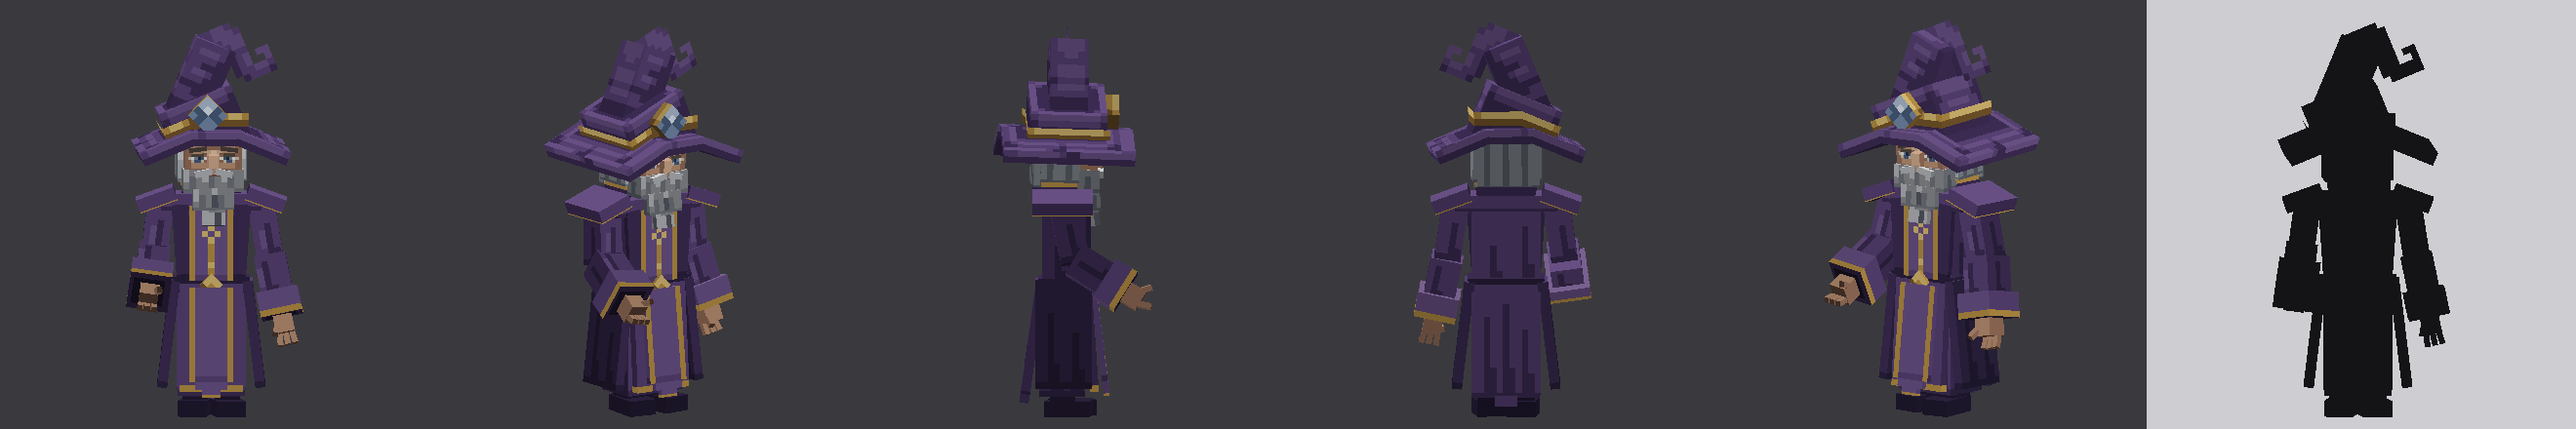
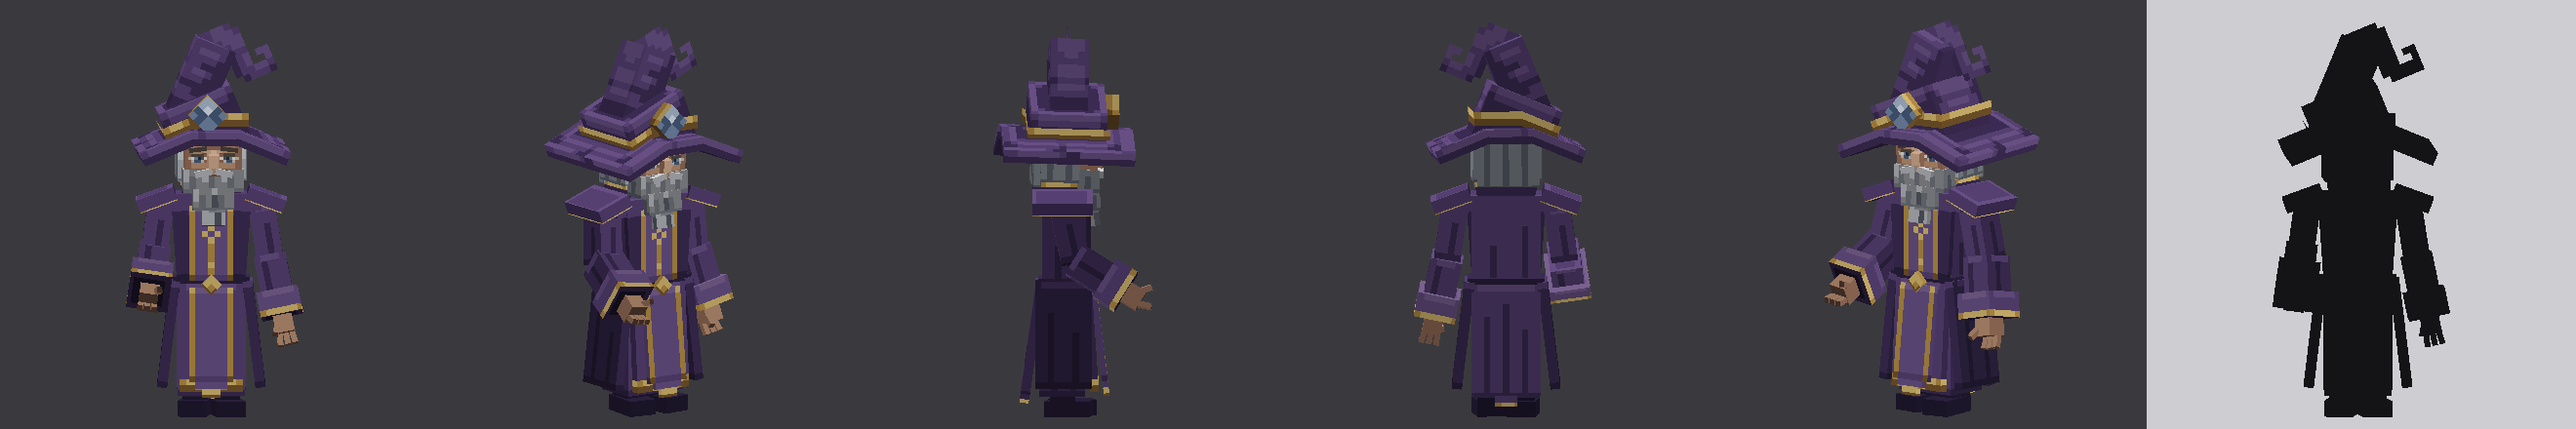
Oracle: keep the hat-style shading, buckle in front of the tabard
The trial becomes the default (--plain gives the flat cloth back). The belt
buckle is a little smaller and moved forward so its lower point no longer
sinks into the skirt.

diff --git a/FluxDungeons/assets/monstres/oracle.py b/FluxDungeons/assets/monstres/oracle.py
@@ -45,8 +45,8 @@ GOLD = E.GOLD
 SIDES = E.SIDES
 
 
-# Trial of 2026-11-14 (`--essai`): the outfit shaded the way the hat is. Off: the delivered model.
-HAT_STYLE = False
+# The outfit is shaded the way the hat is (kept after the trial of 2026-11-14). `--plain`: the Evoker's flat cloth.
+HAT_STYLE = True
 
 
 def gold_row(px, y):
@@ -371,7 +371,8 @@ def parts():
     # ---------------------------------------------------------------- torso
     add("Torso", "torso", (0, 28, 0), (11, 14.5, 7), (0, 0, 0), "robe")
     add("Torso", "belt", (0, 20.9, 0), (12.2, 2.4, 8.4), (0, 0, 0), "belt")
-    add("Torso", "buckle", (0, 20.9, -4.4), (2.6, 2.6, 0.9), (0, 0, 45), "mount")
+    # the buckle sits in front of the tabard, so its lower point is not swallowed by the skirt
+    add("Torso", "buckle", (0, 21.0, -5.1), (2.3, 2.3, 0.9), (0, 0, 45), "mount")
     add("Torso", "tabard_up", (0, 27.5, -3.85), (7, 12, 0.8), (0, 0, 0), "tabard_up")
     add("Torso", "lapel_right", (4.55, 27.6, -3.8), (2.6, 12, 0.9), (0, 0, -4), "lapel")
     add("Torso", "lapel_left", (-4.55, 27.6, -3.8), (2.6, 12, 0.9), (0, 0, 4), "lapel")
@@ -460,9 +461,9 @@ def parts():
 if __name__ == "__main__":
     args = sys.argv[1:]
     opts = {}
-    if "--essai" in args:
-        args.remove("--essai")
-        HAT_STYLE = True
+    if "--plain" in args:
+        args.remove("--plain")
+        HAT_STYLE = False
     for flag in ("--apercu", "--cubes"):
         if flag in args:
             i = args.index(flag)
